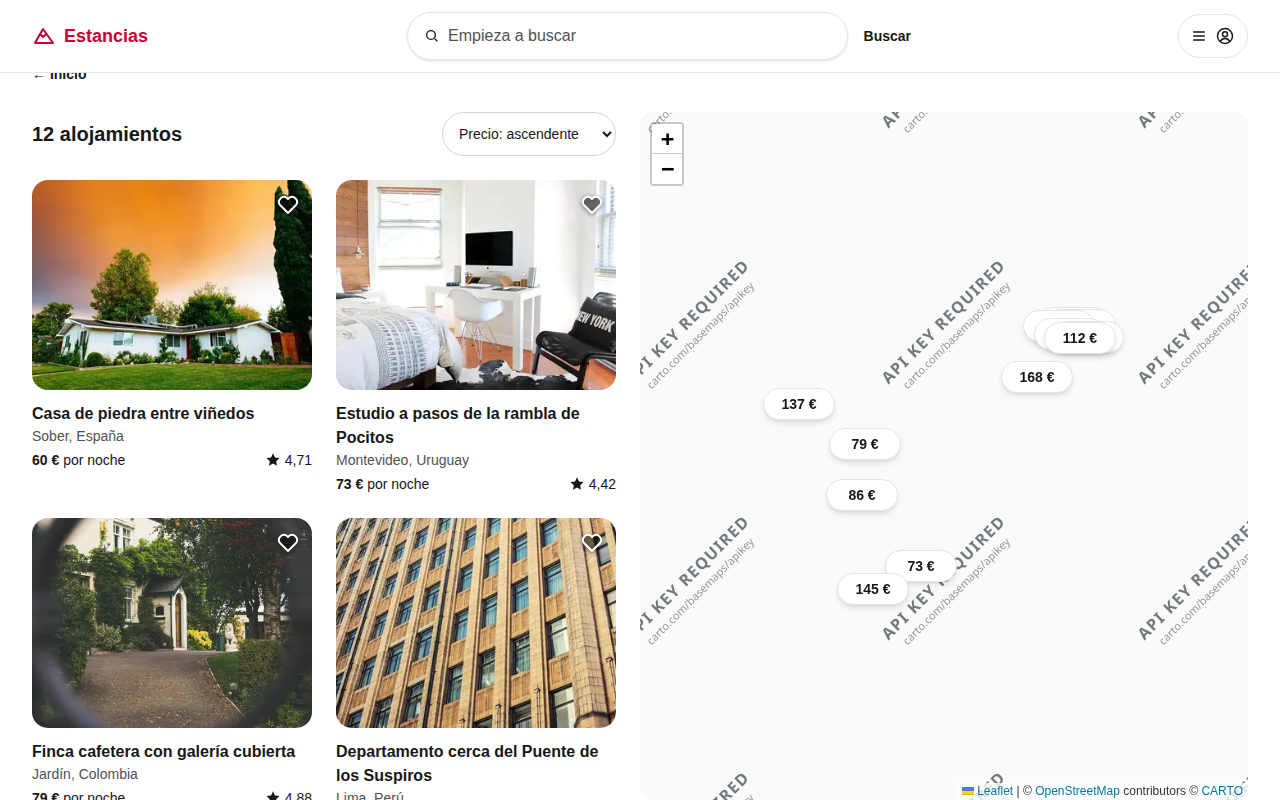
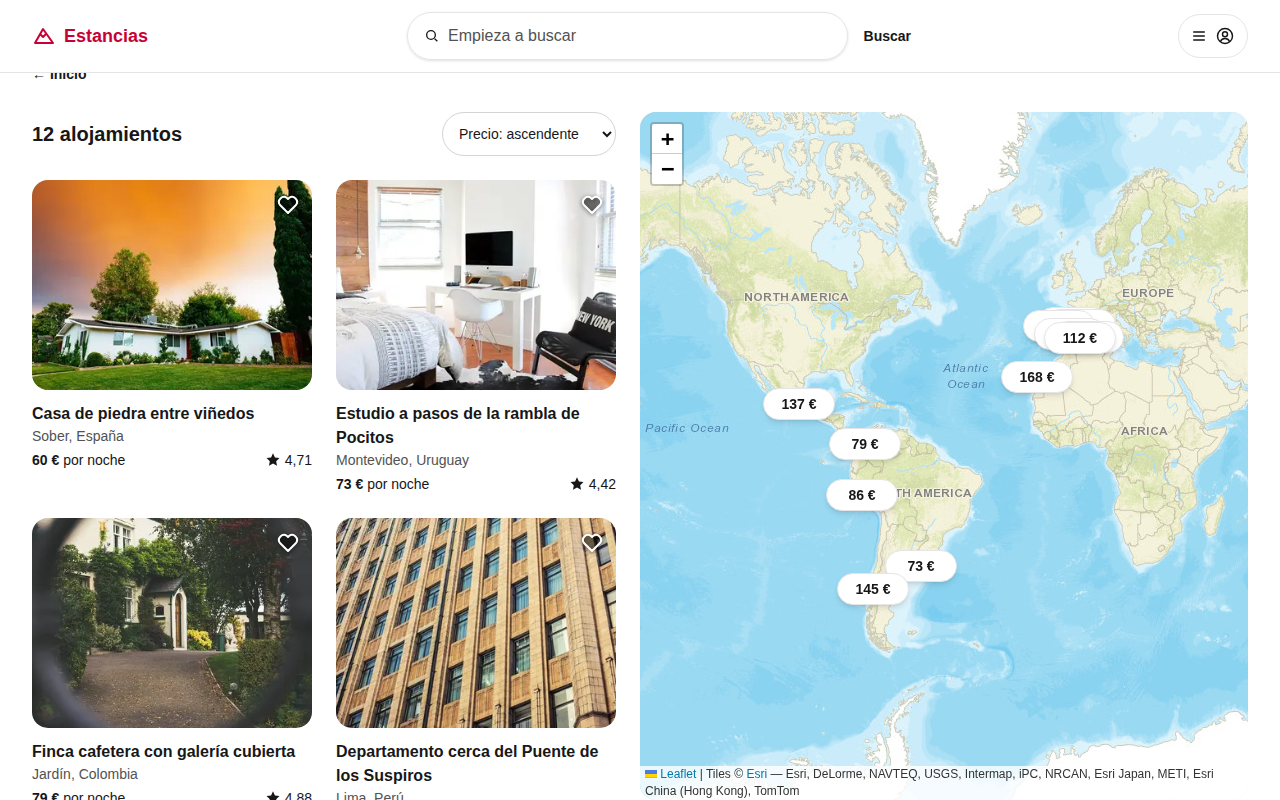
fix: teselas de Esri World Street Map en el mapa (CARTO mostraba marca de agua; ERR-019)

diff --git a/components/ListingsMap.tsx b/components/ListingsMap.tsx
@@ -35,11 +35,10 @@ const ListingsMap = ({ listings }: { listings: readonly Listing[] }) => (
     className="h-[400px] w-full overflow-hidden rounded-2xl md:h-full"
   >
     <TileLayer
-      url="https://{s}.basemaps.cartocdn.com/rastertiles/voyager/{z}/{x}/{y}{r}.png"
-      subdomains="abcd"
+      url="https://server.arcgisonline.com/ArcGIS/rest/services/World_Street_Map/MapServer/tile/{z}/{y}/{x}"
       maxZoom={19}
       attribution={
-        '&copy; <a href="https://www.openstreetmap.org/copyright">OpenStreetMap</a> contributors &copy; <a href="https://carto.com/attributions">CARTO</a>'
+        'Tiles &copy; <a href="https://www.esri.com">Esri</a> &mdash; Esri, DeLorme, NAVTEQ, USGS, Intermap, iPC, NRCAN, Esri Japan, METI, Esri China (Hong Kong), TomTom'
       }
     />
     <FitListingBounds listings={listings} />

diff --git a/docs/REQUIREMENTS_LOG.md b/docs/REQUIREMENTS_LOG.md
@@ -90,9 +90,9 @@
    - Evidencia: [CatalogContent.tsx](../components/CatalogContent.tsx) coloca el mapa después de la lista en móvil y a la derecha con `sticky` desde `md:`. La respuesta HTTP en dev incluyó [MapPlaceholder.tsx](../components/MapPlaceholder.tsx) con el texto «Mapa».
    - Estado/fecha: Completado — 2026-11-23.
  - [x] 4.4 RETO OPCIONAL: sustituir placeholder por mapa interactivo real (react-leaflet o Google Maps) con cada alojamiento como pin usando sus coordenadas
-   - Evidencia: [MapSection.tsx](../components/MapSection.tsx) carga Leaflet sin SSR. [ListingsMap.tsx](../components/ListingsMap.tsx) muestra pines de precio y teselas de CARTO Voyager (datos de OpenStreetMap) con atribución; [FitListingBounds.tsx](../components/FitListingBounds.tsx) encuadra las coordenadas. Chromium verificó 12 pines, un pin al filtrar y la navegación desde el popup sin recargar el documento (teselas simuladas). Fase 1 (2026-11-23): Playwright (Chromium) a 375 y 1280 px, 48/48 comprobaciones; 12 pines (uno por alojamiento) en `/catalog`. Se corrigió el centrado del precio en el pin (ERR-013). Capturas: [impl-catalog-375.png](./screenshots/impl-catalog-375.png) e [impl-catalog-1280.png](./screenshots/impl-catalog-1280.png). Las teselas OSM se simularon en la prueba.
-     Corrección 2026-11-23 (ERR-019): OSM devolvía 403; se cambió a CARTO Voyager, con estilos de Leaflet corregidos en [globals.css](../app/globals.css) y capturas [catalog-map-375.png](./screenshots/catalog-map-375.png) y [catalog-map-1280.png](./screenshots/catalog-map-1280.png). Playwright: 24/24 comprobaciones; teselas reales con HTTP 200, pero con la marca de agua «API KEY REQUIRED» de CARTO, pendiente de decisión.
-   - Estado/fecha: Completado con pendiente — 2026-11-23.
+   - Evidencia: [MapSection.tsx](../components/MapSection.tsx) carga Leaflet sin SSR. [ListingsMap.tsx](../components/ListingsMap.tsx) muestra pines de precio y teselas de Esri World Street Map con atribución; [FitListingBounds.tsx](../components/FitListingBounds.tsx) encuadra las coordenadas. Chromium verificó 12 pines, un pin al filtrar y la navegación desde el popup sin recargar el documento (teselas simuladas). Fase 1 (2026-11-23): Playwright (Chromium) a 375 y 1280 px, 48/48 comprobaciones; 12 pines (uno por alojamiento) en `/catalog`. Se corrigió el centrado del precio en el pin (ERR-013). Capturas: [impl-catalog-375.png](./screenshots/impl-catalog-375.png) e [impl-catalog-1280.png](./screenshots/impl-catalog-1280.png). Las teselas OSM se simularon en la prueba.
+     Corrección 2026-11-23 (ERR-019): OSM devolvía 403 y CARTO sirvió marca de agua; se usa Esri World Street Map (sin clave), con estilos de Leaflet corregidos en [globals.css](../app/globals.css) y capturas [catalog-map-375.png](./screenshots/catalog-map-375.png) y [catalog-map-1280.png](./screenshots/catalog-map-1280.png). Playwright: 26/26 comprobaciones; teselas reales.
+   - Estado/fecha: Completado — 2026-11-23.
 
 ### 5 — Página de detalle (/rooms/[id])
 
@@ -124,13 +124,13 @@
    - Evidencia: [ListingCard.tsx](../components/ListingCard.tsx) envuelve la tarjeta en `Link` a `/rooms/[id]`. Playwright 1.56.1 (Chromium) contra `npm run dev`, 48/48 comprobaciones superadas a 375 y 1280 px: el clic en la primera tarjeta de la Home abre su ficha; el enlace «Ver alojamiento» del popup del mapa y las tarjetas del Catálogo usan el mismo componente.
    - Estado/fecha: Completado — verificado en navegador 2026-11-23.
  - [x] 6.2 Usar <Link> de Next.js para toda la navegación entre páginas
-   - Evidencia: `grep -rn "<a " app components --include=*.tsx` solo encuentra [ListingsMap.tsx:42](../components/ListingsMap.tsx), un string con los enlaces **externos** de atribución de OpenStreetMap y CARTO que exigen sus licencias y que Leaflet inserta en el control de atribución. No hay `<a>` de navegación interna. Toda la navegación usa `Link`: [ListingCard.tsx](../components/ListingCard.tsx), [Navbar.tsx](../components/Navbar.tsx), [BottomNav.tsx](../components/BottomNav.tsx), [HomeContent.tsx](../components/HomeContent.tsx), [catalog/page.tsx](../app/catalog/page.tsx), [CatalogContent.tsx](../components/CatalogContent.tsx), [ListingsMap.tsx](../components/ListingsMap.tsx) (popup), [BackToCatalog.tsx](../components/BackToCatalog.tsx) y [RoomNotFound.tsx](../components/RoomNotFound.tsx). La búsqueda del Catálogo es un `<form action="/catalog">` GET, no un enlace.
+   - Evidencia: `grep -rn "<a " app components --include=*.tsx` solo encuentra [ListingsMap.tsx:41](../components/ListingsMap.tsx), un string con el enlace **externo** de atribución de Esri que exige su licencia y que Leaflet inserta en el control de atribución. No hay `<a>` de navegación interna. Toda la navegación usa `Link`: [ListingCard.tsx](../components/ListingCard.tsx), [Navbar.tsx](../components/Navbar.tsx), [BottomNav.tsx](../components/BottomNav.tsx), [HomeContent.tsx](../components/HomeContent.tsx), [catalog/page.tsx](../app/catalog/page.tsx), [CatalogContent.tsx](../components/CatalogContent.tsx), [ListingsMap.tsx](../components/ListingsMap.tsx) (popup), [BackToCatalog.tsx](../components/BackToCatalog.tsx) y [RoomNotFound.tsx](../components/RoomNotFound.tsx). La búsqueda del Catálogo es un `<form action="/catalog">` GET, no un enlace.
    - Estado/fecha: Completado — 2026-11-23.
  - [x] 6.3 Botón volver o breadcrumb en el detalle que regrese al Catálogo
    - Evidencia: [BackToCatalog.tsx](../components/BackToCatalog.tsx) (migas Inicio / Catálogo y «← Volver al catálogo»). Playwright 1.56.1 (Chromium) contra `npm run dev`, 48/48 comprobaciones superadas a 375 y 1280 px: el clic en «Volver al catálogo» desde `/rooms/[id]` lleva a `/catalog`. `/rooms/999` muestra [RoomNotFound.tsx](../components/RoomNotFound.tsx) con enlace al Catálogo y HTTP 404 ([impl-rooms-999-375.png](./screenshots/impl-rooms-999-375.png)).
    - Estado/fecha: Completado — verificado en navegador 2026-11-23.
  - [x] 6.4 IMPORTANTE: nunca <a href="..."> plano para navegación interna
-   - Evidencia: Ver 6.2: el único `<a>` del código es la atribución externa de OpenStreetMap y CARTO ([ListingsMap.tsx:42](../components/ListingsMap.tsx)). Los demás `<a>` del DOM los genera Leaflet (zoom y atribución). Ninguno es navegación interna.
+   - Evidencia: Ver 6.2: el único `<a>` del código es la atribución externa de Esri ([ListingsMap.tsx:41](../components/ListingsMap.tsx)). Los demás `<a>` del DOM los genera Leaflet (zoom y atribución). Ninguno es navegación interna.
    - Estado/fecha: Completado — 2026-11-23.
 
 ### 7 — Calidad de código
@@ -209,6 +209,6 @@ Comandos: `npm run lint` sin errores ni avisos; `npm run build` compila `/`, `/c
 
 ### Pendiente de verificación manual
 
-- **Teselas reales del mapa** — CARTO Voyager responde 200, pero sirve la marca de agua «API KEY REQUIRED» en lugar del mapa base (ERR-019). Hace falta decidir una clave de API de CARTO o cambiar de proveedor, y volver a capturar `/catalog`.
+- **Teselas reales del mapa** — verificadas con Playwright en 375 y 1280 px con Esri World Street Map (ERR-019). Queda confirmar el mapa en un navegador real con conexión.
 - **Dispositivo físico** — la verificación se hizo en Chromium con viewport de 375 px, no en un móvil real (Safari iOS: área segura, teclado virtual sobre el buscador).
 

diff --git a/docs/ERROR_LOG.md b/docs/ERROR_LOG.md
@@ -184,8 +184,8 @@ Copia la plantilla y crea una entrada con un número consecutivo (`ERR-001`, `ER
 - Fecha / Prompt o fase: 2026-11-23 / Corrección del mapa de `/catalog` tras captura del usuario (Claude Code).
 - Síntoma (mensaje exacto o descripción): Las teselas de OpenStreetMap devolvían 403 «Access blocked: App is not following the tile usage policy». Además, las teselas se veían gigantes y desbordaban el contenedor del mapa.
 - Causa raíz: (a) La política de uso de teselas de `tile.openstreetmap.org` no permite esta aplicación. (b) El preflight de Tailwind (`img { max-width: 100%; height: auto }`) afecta a las teselas y a los iconos de Leaflet, que se dibujan en `<img>`, y el contenedor no tenía `overflow-hidden`.
-- Solución aplicada (comandos/cambios): `TileLayer` pasa a CARTO Voyager: `https://{s}.basemaps.cartocdn.com/rastertiles/voyager/{z}/{x}/{y}{r}.png`, `subdomains="abcd"`, `maxZoom={19}` y atribución OSM + CARTO. La ruta con `rasterTiles` (la de la instrucción) devolvió 404; la variante en minúsculas `rastertiles` devolvió 200. Regla en [globals.css](../app/globals.css) para `.leaflet-tile` y `.leaflet-marker-icon` con `max-width/max-height: none !important`. Contenedor con `h-[400px] w-full overflow-hidden md:h-full`. Playwright a 375 y 1280 px: 24/24 comprobaciones (teselas a 256 px con HTTP 200, 12 pines de 72×32 con el texto centrado a menos de 0,1 px, sin desbordamiento horizontal, sin «403» en la página).
-- Pendiente parcial: CARTO responde 200, pero sirve teselas con la marca de agua «API KEY REQUIRED» (tesela de unos 2 KB; en la misma zona OSM sirve unos 11 KB y Esri unos 29 KB). Verificar solo el código HTTP no basta. Hace falta decidir: una clave de API de CARTO o cambiar de proveedor.
+- Solución aplicada (comandos/cambios): Primer intento: CARTO Voyager (`rastertiles`, la ruta `rasterTiles` dio 404), que devolvía 200 pero con la marca de agua «API KEY REQUIRED» (tesela de ~2 KB). Solución final: Esri World Street Map sin clave, `https://server.arcgisonline.com/ArcGIS/rest/services/World_Street_Map/MapServer/tile/{z}/{y}/{x}`, `maxZoom={19}` y atribución de Esri. Regla CSS en [globals.css](../app/globals.css) para `.leaflet-tile` y `.leaflet-marker-icon` con `max-width/max-height: none !important`. Contenedor `h-[400px] w-full overflow-hidden md:h-full`. Playwright a 375 y 1280 px: 26/26 comprobaciones (teselas Esri a 256 px con HTTP 200 y tamaño real, 12 pines de 72×32 con el texto centrado a menos de 0,1 px, sin desbordamiento horizontal, sin «403» en la página).
+- Pendiente: Ninguno en el mapa. Queda por revisar la licencia de uso de Esri si la app se publica con mucho tráfico.
 - Archivos afectados: [ListingsMap.tsx](../components/ListingsMap.tsx), [globals.css](../app/globals.css), [catalog-map-375.png](./screenshots/catalog-map-375.png), [catalog-map-1280.png](./screenshots/catalog-map-1280.png), [CREDITS.md](./CREDITS.md), [REQUIREMENTS_LOG.md](./REQUIREMENTS_LOG.md), README.md.
-- Cómo evitarlo en el futuro: Revisar las teselas en una captura real antes de dar el mapa por bueno: un 200 con marca de agua o un tamaño muy pequeño también es un fallo. Consultar la política de uso del proveedor antes de elegirlo. Comprobar en Leaflet los estilos que Tailwind puede pisar.
-- Estado: Pendiente parcial — el 403 y el desbordamiento están resueltos; falta decidir el proveedor o la clave de CARTO para quitar la marca de agua.
+- Cómo evitarlo en el futuro: Revisar las teselas en una captura real y su tamaño antes de dar el mapa por bueno: un 200 con marca de agua también es un fallo. Consultar la política de uso del proveedor antes de elegirlo. Comprobar en Leaflet los estilos que Tailwind puede pisar.
+- Estado: Resuelto — teselas reales de Esri a 375 y 1280 px (2026-11-23).

diff --git a/docs/CREDITS.md b/docs/CREDITS.md
@@ -30,5 +30,5 @@ Proceso: se comprobó con `file` que cada descarga era un JPEG válido de más d
 ## Mapa del Catálogo
 
 - **Leaflet** (BSD-2-Clause) y **react-leaflet** (MIT): librerías del mapa interactivo.
-- **Teselas:** [CARTO Voyager](https://carto.com/attributions) sobre datos de [OpenStreetMap](https://www.openstreetmap.org/copyright) (© colaboradores de OpenStreetMap, licencia ODbL). Atribución visible en el control del mapa.
-- Estado (2026-11-23, ERR-019): las teselas devuelven 200, pero CARTO sirve una marca de agua «API KEY REQUIRED» hasta que haya una clave de API o se cambie de proveedor.
+- **Teselas:** Esri World Street Map (servicio `World_Street_Map` de [ArcGIS](https://www.esri.com)) (© Esri y colaboradores, según el atributo que muestra el mapa). Se usa sin clave de API; la atribución es visible en el control del mapa.
+- Historial (ERR-019, 2026-11-23): OSM devolvía 403 y CARTO Voyager sin clave servía una marca de agua «API KEY REQUIRED», por lo que se cambió a Esri.

diff --git a/README.md b/README.md
@@ -63,7 +63,7 @@ context.md              Usuario, páginas, componentes y especificaciones de vis
 
 ## Retos opcionales hechos
 
-- **Mapa interactivo (4.4):** `react-leaflet` con teselas de CARTO Voyager (datos de OpenStreetMap; pendiente de clave de API, ver ERR-019), un pin de precio por alojamiento según sus coordenadas, encuadre automático y popup con enlace a la ficha.
+- **Mapa interactivo (4.4):** `react-leaflet` con teselas de Esri World Street Map (sin clave de API; ver ERR-019), un pin de precio por alojamiento según sus coordenadas, encuadre automático y popup con enlace a la ficha.
 - **Selector de fechas (5.7):** `react-day-picker` en español, sin días pasados. Calcula las noches y el total (noches × precio) y deja «Reservar» deshabilitado hasta elegir un rango.
 
 ## Documentación y verificación
